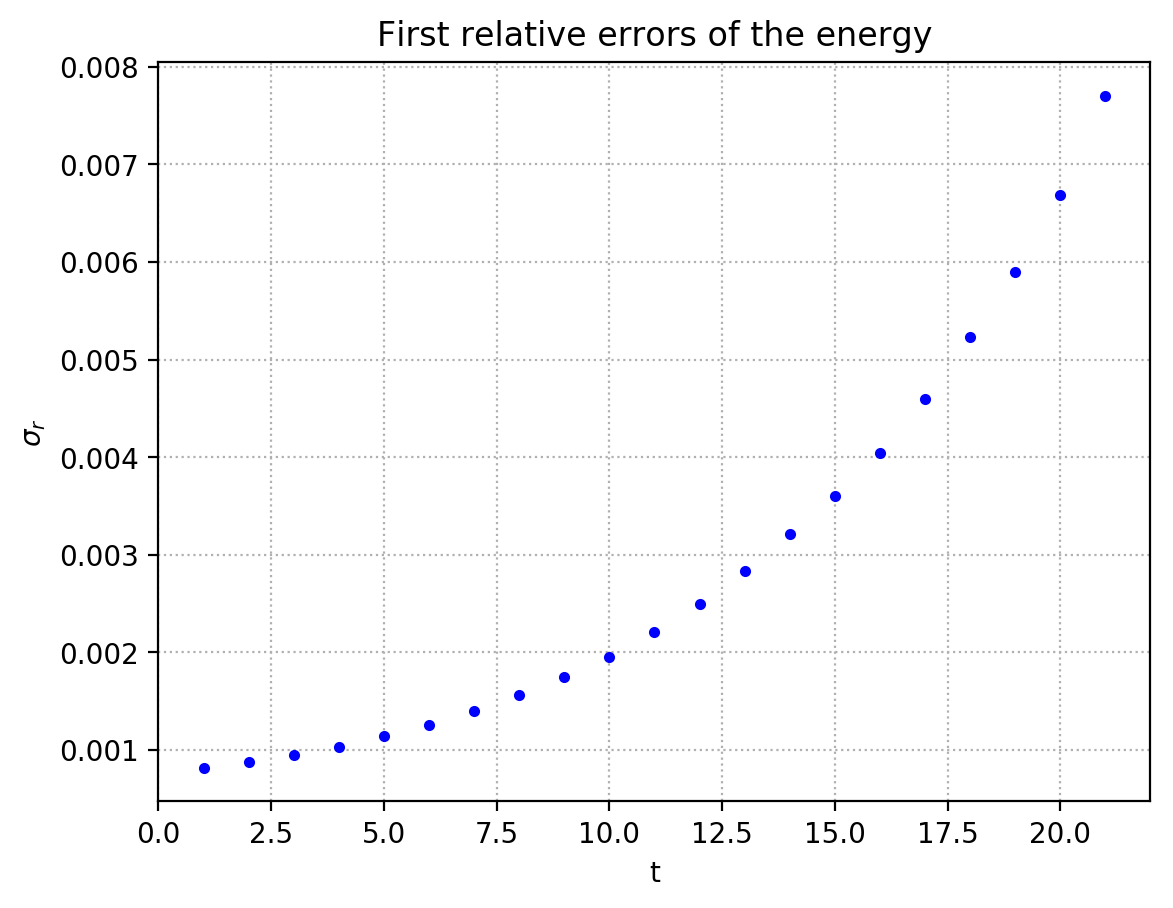
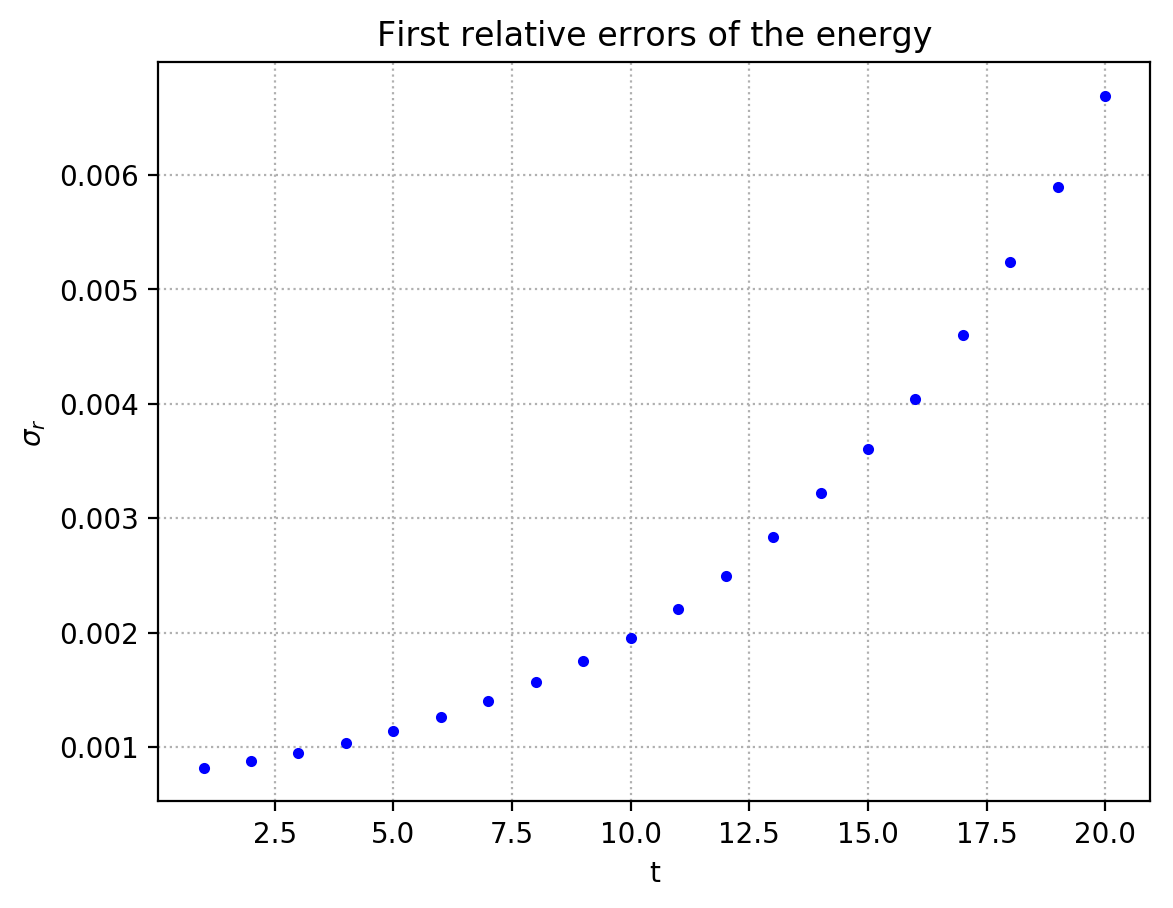
Commit 28/08

diff --git a/fit/single_fit.py b/fit/single_fit.py
@@ -32,7 +32,7 @@ results["a"] = 64/N
 # I consider only the values with a relative error lower than a threshold
 counter = 0
 for j in range(len(dE)):
-    if(err[j]/dE[j] < 0.008):
+    if(err[j]/dE[j] < 0.0075):
         counter += 1
 # The values are symmetric, so the final result must be divided by 2
 counter = int(counter/2)
